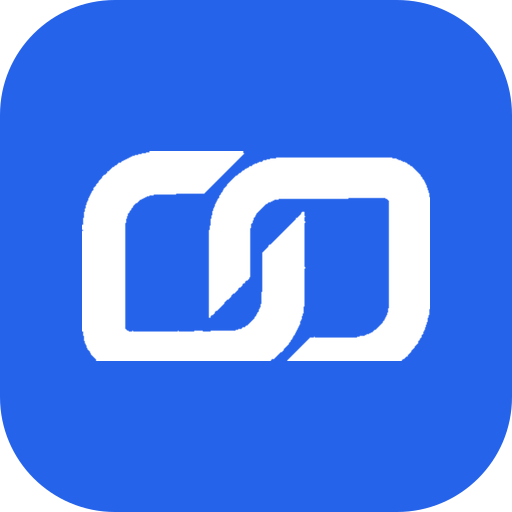
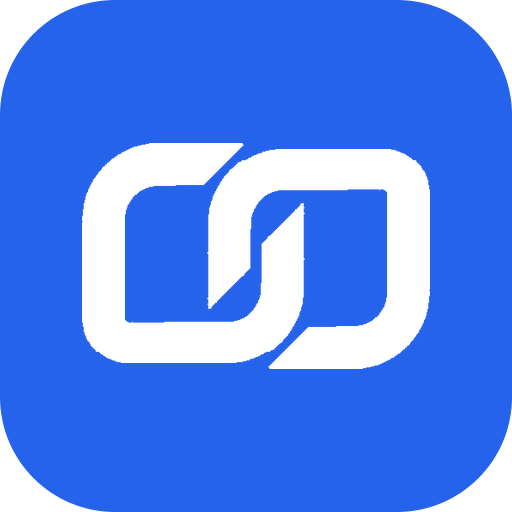
HI-LINK 아이콘 아래쪽 잘림 수정 — 공식 원본 기준 수정본으로 교체 + 캐시 끊기용 v2 파일명
hilink-icon.png가 hilink-website의 잘림 수정 전 앱 아이콘과 동일(md5 일치)했음.
hilink-website 6e75e04의 복원본으로 교체하고, 이미지 최적화 캐시에 예전 그림이
남지 않도록 hilink-icon-v2.png로 참조를 바꿨다(옛 이름 파일도 수정본).
DAGYM 정식 로고 파일은 어느 저장소에도 없어 헤더·파비콘은 현행 유지.

Claude-Session: https://claude.ai/code/session_0197x2N654X9nSVRwq2zTTcJ

diff --git a/data/group.ts b/data/group.ts
@@ -26,7 +26,7 @@ export type Division = {
 
 /** 플랫폼 로고 (앱 아이콘) — HILINK: hilink-website 공식 앱 아이콘 · work-in: 워크인 서비스 공식 아이콘 */
 export const platformLogos = {
-  hilink: "/images/brand/hilink-icon.png",
+  hilink: "/images/brand/hilink-icon-v2.png", // v2: 심볼 아래쪽 잘림 수정본 — 파일명 변경으로 이미지 캐시를 끊는다
   workin: "/images/brand/workin-icon.svg",
 } as const;
 

diff --git a/docs/WORK_STATUS.md b/docs/WORK_STATUS.md
@@ -1,10 +1,22 @@
 # WORK_STATUS — 어느 PC에서든 이 파일을 먼저 읽는다
 
-마지막 갱신: 2026-10-23 · 클라우드 세션
+마지막 갱신: 2026-10-28 · 클라우드 세션
 
 전역 운영 규칙(자동 sync·자동 commit/push·안전 규칙)은 `~/.claude/CLAUDE.md`,
 정본은 `dazim-hilink-integration` → `docs/development/CLAUDE_GLOBAL_WORKFLOW.md`.
 세션 시작 시 SessionStart 훅이 fetch·안전한 ff-only pull·이 문서 읽기를 자동 수행한다.
+
+## 2026-10-28 — HI-LINK 아이콘 아래쪽 잘림 수정 (대표 요청)
+
+- ✅ `public/images/brand/hilink-icon.png`가 hilink-website의 **잘림 수정 전 앱 아이콘과 동일 파일**
+  (md5 일치)이었음 → hilink-website `6e75e04`에서 공식 원본 기준으로 복원한 앱 아이콘(512×512)으로 교체.
+- ✅ 이미지 캐시 끊기: 새 파일 `hilink-icon-v2.png`를 만들고 `data/group.ts` `platformLogos.hilink`를
+  v2로 변경(Vercel 이미지 최적화 캐시는 원본 주소 기준이라 같은 이름 교체만으로는 예전 그림이 남을 수 있음).
+  옛 이름 파일도 수정본으로 교체해 두어 어디서 불러도 정상.
+- ❓ 상단 DAGYM 로고 · 파비콘(`app/icon.svg` "D"): **정식 DAGYM 로고 파일이 없음** — dagym-website·
+  dagym-workspace·hilink-website·예전 dagym1.com(Wix 기본 아이콘) 모두 확인. 로고를 임의 제작하지 않음.
+  대표가 공식 로고(가능하면 SVG, 없으면 투명 PNG + 흰색 버전)를 주면 `data/config.ts` `brandAssets.dagym`/
+  `dagymWhite`에 등록 → 헤더·푸터가 자동으로 이미지 로고로 바뀜(Logo.tsx가 이미 지원). 파비콘도 같은 파일로 교체.
 
 ## 2026-10-23 (2) — 로컬 운영 확인 후속
 
